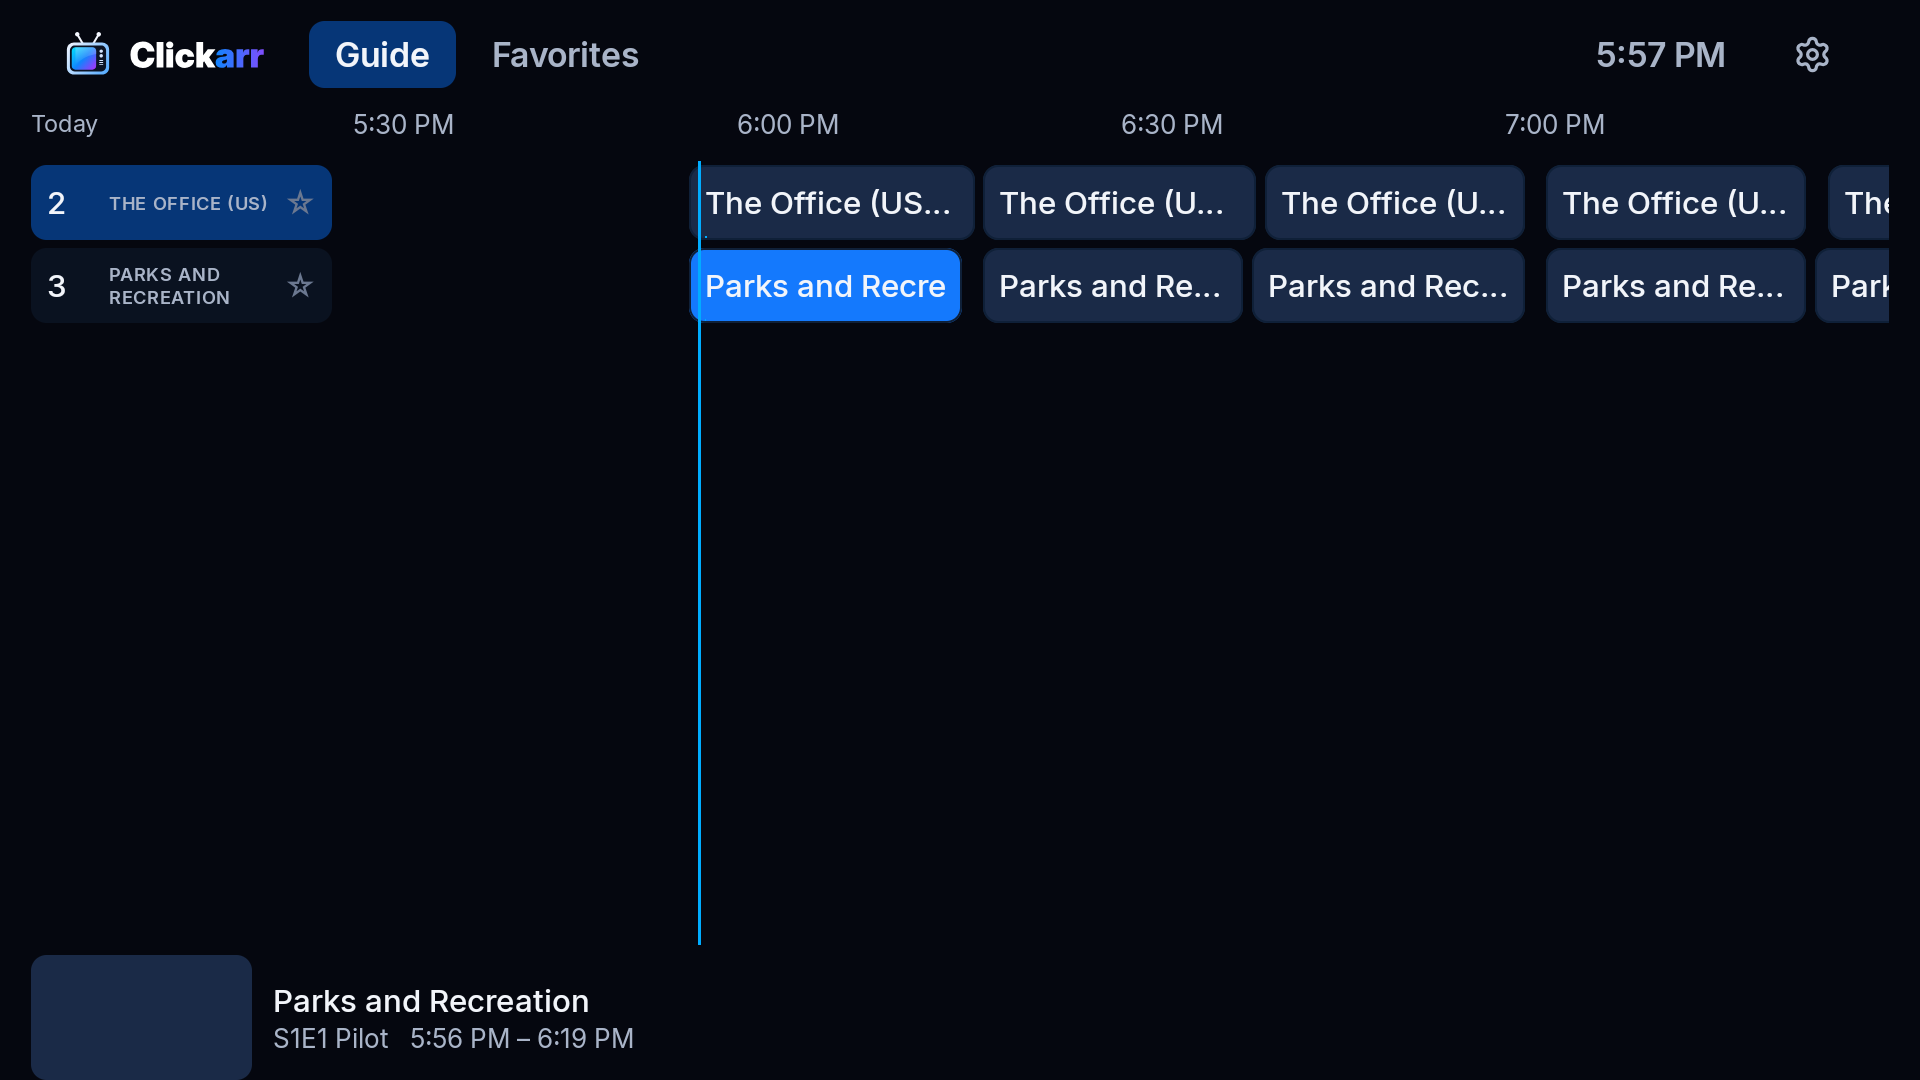
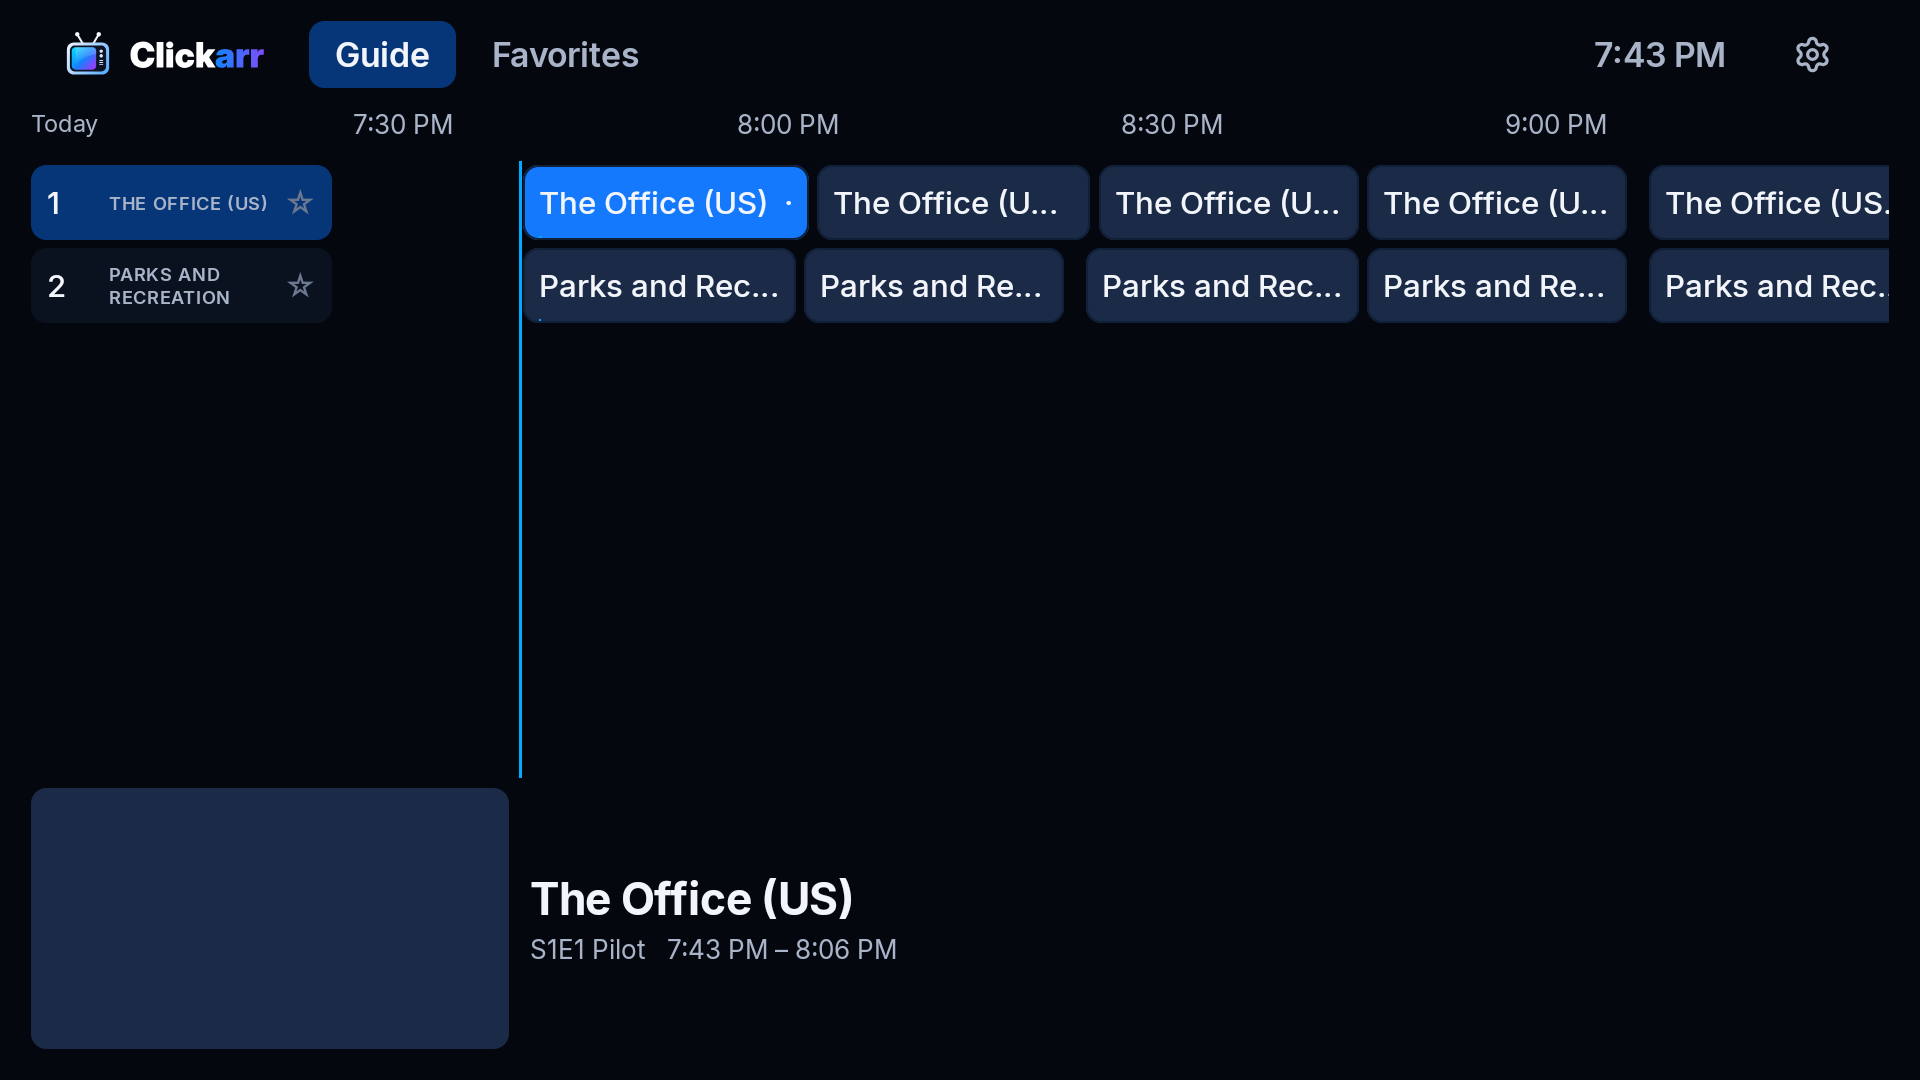
Fresh guide, suggest, and holiday screenshots on the site and README; captions help text matches the new style; sleep chips wrap

diff --git a/site/index.html b/site/index.html
@@ -204,10 +204,10 @@ Parks and Rec is 22 minutes in.</pre>
       <div class="grid">
         <div class="tile"><img src="assets/screens/guide.png" alt="Program guide grid with a now-line and a preview card" loading="lazy"><div><h3>Guide</h3><p>Two hours across, a now-line, a preview card with artwork and synopsis for the focused program, and stars on the channel column for favorites. Up and down follow the time column, OK tunes in.</p></div></div>
         <div class="tile"><img src="assets/screens/editor.png" alt="Channel editor with name, number, icon palette, order, and time slots" loading="lazy"><div><h3>Channels</h3><p>Build a channel from shows, a whole library with genre and decade filters, a collection, or a playlist. In order or shuffled, with two or three episodes of a show in a row if you like, back to back or on the half hour.</p></div></div>
+        <div class="tile"><img src="assets/screens/holidays.png" alt="Holiday channels list with Christmas on at channel 100" loading="lazy"><div><h3>Holiday channels</h3><p>Valentine's Day and Easter for the week before, Halloween, Thanksgiving, and Christmas from the first of the month. Fill one from genres, collections, or titles you pick; it appears in the guide in season and comes back every year, all on one shared channel number.</p></div></div>
         <div class="tile"><img src="assets/screens/household.png" alt="Household settings showing a member connected to a coordinator" loading="lazy"><div><h3>Household</h3><p>Several TVs share one lineup and agree on the schedule over your own Wi-Fi, paired with a PIN over TLS. No extra server, no cloud account. Or sync through Google Drive for TVs in different homes.</p></div></div>
         <div class="tile"><img src="assets/screens/player.png" alt="Player overlay with channel number, program, episode, and Up Next" loading="lazy"><div><h3>Player</h3><p>Tune in and you are mid-episode, like television. The overlay shows the channel, the program, where you are in the slot, and what is up next.</p></div></div>
         <div class="tile"><img src="assets/screens/suggest.png" alt="Suggested channels list built from the library" loading="lazy"><div><h3>Suggest channels</h3><p>Clickarr reads your library once and proposes a starting lineup the way you would make it by hand: a rerun channel for each show you have the most of, your collections, the genres and decades you have plenty of, a shuffled movie channel, and a playlist. Untick what you do not want; nothing is created until you say so.</p></div></div>
-        <div class="tile"><img src="assets/screens/setup.png" alt="First-run screen with a Connect to your media server card" loading="lazy"><div><h3>Setup</h3><p>Sign in to Plex with a code on your phone, or type an address and token. Your sign-in stays on the TV, in its own Keystore, and is never synced.</p></div></div>
       </div>
     </div>
   </section>

diff --git a/feature/settings/src/main/kotlin/net/clickarr/feature/settings/PlaybackPane.kt b/feature/settings/src/main/kotlin/net/clickarr/feature/settings/PlaybackPane.kt
@@ -1,6 +1,8 @@
 package net.clickarr.feature.settings
 
 import androidx.compose.foundation.layout.Arrangement
+import androidx.compose.foundation.layout.ExperimentalLayoutApi
+import androidx.compose.foundation.layout.FlowRow
 import androidx.compose.foundation.layout.Row
 import androidx.compose.foundation.layout.widthIn
 import androidx.compose.runtime.Composable
@@ -41,7 +43,7 @@ internal fun PlaybackPane(vm: PlaybackSettingsViewModel = hiltViewModel()) {
     }
     PaneCaption(
         "Shows the program's subtitles in this TV's language when it has them. Hold OK while watching to switch. " +
-            "Size, colour, and background follow the TV's own caption settings.",
+            "Clickarr draws them in its own clean style; captions burned in by a Plex transcode keep the server's look.",
     )
     SleepBlock(vm)
 }
@@ -67,12 +69,13 @@ internal fun WatchReportingBlock(vm: PlaybackSettingsViewModel = hiltViewModel()
     )
 }
 
-/** Sleep timer and "Are you still watching?". */
+/** Sleep timer and "Are you still watching?". Five timer chips do not fit one row at every UI size, so they wrap. */
+@OptIn(ExperimentalLayoutApi::class)
 @Composable
 private fun SleepBlock(vm: PlaybackSettingsViewModel) {
     val sleepAt by vm.sleepAt.collectAsState()
     PaneLabel("Sleep timer")
-    Row(horizontalArrangement = Arrangement.spacedBy(8.dp)) {
+    FlowRow(horizontalArrangement = Arrangement.spacedBy(8.dp), verticalArrangement = Arrangement.spacedBy(8.dp)) {
         PaneChip("Off", selected = sleepAt == null) { vm.setSleepIn(null) }
         SLEEP_CHOICES.forEach { (label, minutes) -> PaneChip(label, selected = false) { vm.setSleepIn(minutes) } }
     }

diff --git a/README.md b/README.md
@@ -45,6 +45,10 @@ Screens from the app as it stands, taken on the Android TV emulator by the test 
     <td width="50%"><img src="site/assets/screens/suggest.png" alt="Suggested channels"><br><sub><b>Suggest channels.</b> A practical starting lineup from what you own: rerun channels, collections, genre themes, decades, a movie channel.</sub></td>
     <td width="50%"><img src="site/assets/screens/household.png" alt="Household settings"><br><sub><b>Household.</b> Several TVs in one home share channels and agree on the schedule over your Wi-Fi. No extra server required.</sub></td>
   </tr>
+  <tr>
+    <td width="50%"><img src="site/assets/screens/holidays.png" alt="Holiday channels"><br><sub><b>Holiday channels.</b> Valentine's Day, Easter, Halloween, Thanksgiving, and Christmas, on air only in the run-up and back every year.</sub></td>
+    <td width="50%"><img src="site/assets/screens/setup.png" alt="First-run setup"><br><sub><b>Setup.</b> Sign in to Plex with a code on your phone, or type an address and token. Your sign-in stays on the TV and is never synced.</sub></td>
+  </tr>
 </table>
 
 ## Get it
